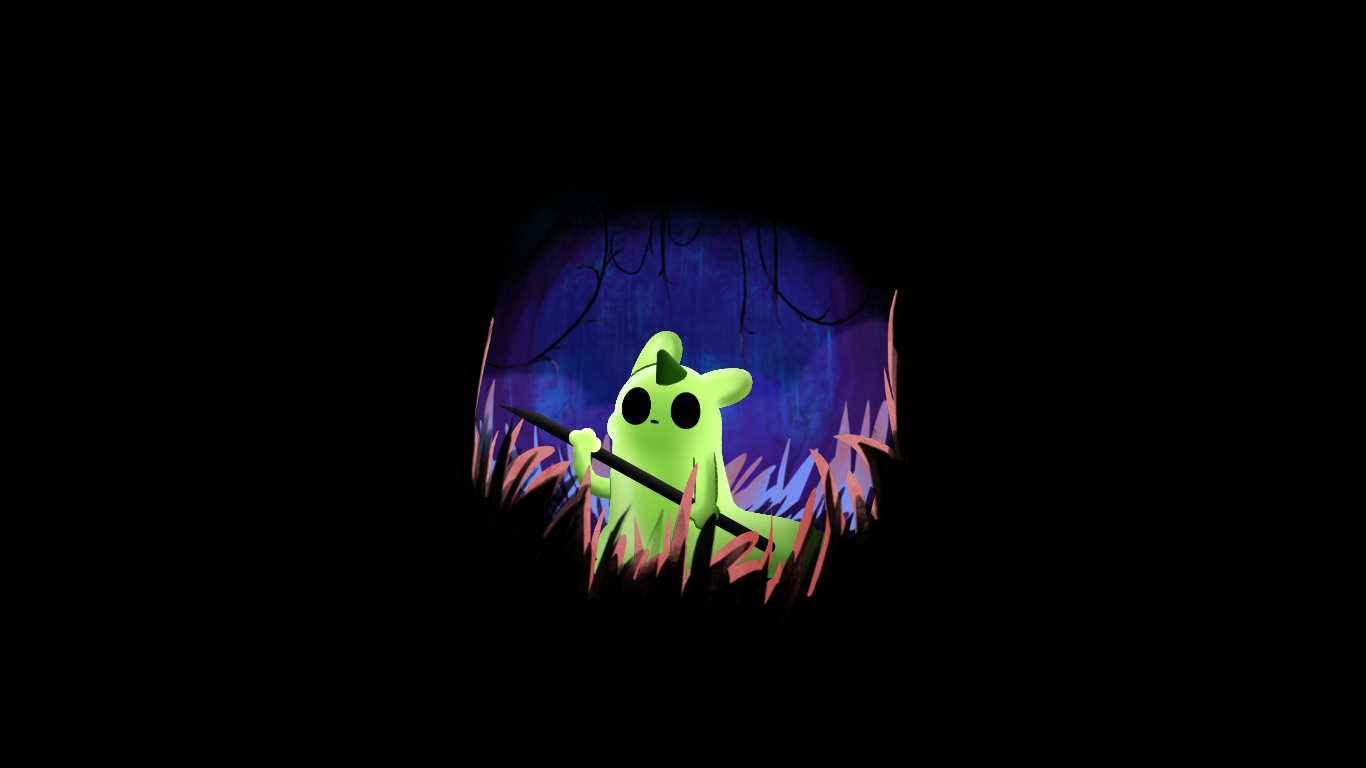
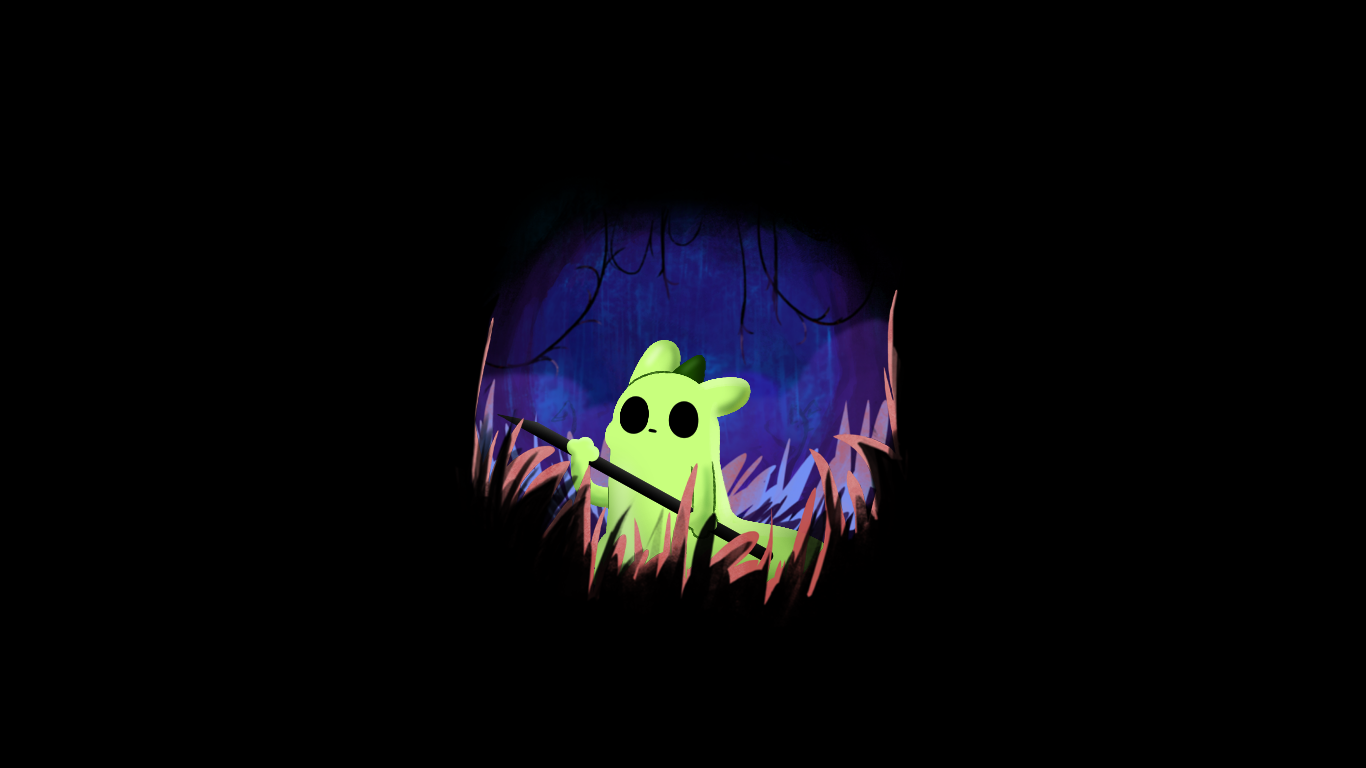
Preps for supporting Custom lancers; Fixed 4 player cap

Changed region(s): [[0.369, 0.4375, 0.6149, 0.75]]

diff --git a/Cat/LancerGenerator.cs b/Cat/LancerGenerator.cs
@@ -1,6 +1,4 @@
-#define NO_MSC
-
-using CatSub.Story;
+using CatSub.Story;
 using LancerRemix.Cat;
 using LancerRemix.LancerMenu;
 using Menu;
@@ -20,27 +18,21 @@ namespace LancerRemix
             On.SlugcatStats.SlugcatFoodMeter += LancerFoodMeter;
             On.SlugcatStats.SlugcatUnlocked += LancerUnlocked;
             On.SlugcatStats.NourishmentOfObjectEaten += LancerNourishmentOfObjectEaten;
-#if NO_MSC
             On.Menu.MenuScene.UseSlugcatUnlocked += UseLancerUnlocked;
-#endif
             On.SlugcatStats.HiddenOrUnplayableSlugcat += DisableLancerRegularSelect;
         }
 
         private static bool IsStoryLancer => ModifyCat.IsStoryLancer;
-
-#if NO_MSC
 
         private static bool LancerUnlocked(On.SlugcatStats.orig_SlugcatUnlocked orig, SlugName i, RainWorld rainWorld)
         {
             if (IsLancer(i))
             {
                 i = GetBasis(i);
-                if (SlugcatStats.IsSlugcatFromMSC(i)) return false; // TBA
+                if (SlugcatStats.IsSlugcatFromMSC(i)) return LancerPlugin.MSCLANCERS;
             }
             return orig(i, rainWorld);
         }
-
-#endif
 
         private static bool UseLancerUnlocked(On.Menu.MenuScene.orig_UseSlugcatUnlocked orig, MenuScene self, SlugName slugcat)
         {
@@ -99,11 +91,13 @@ namespace LancerRemix
             string id = GetLancerName(basis.value);
             lancer = new SlugName(id, false);
             if (lancer.Index >= 0) return false;
+            lancerModifiers.Remove(basis);
 
             if (basis == SlugName.White || basis == SlugName.Yellow || basis == SlugName.Red || basis == SlugName.Night)
                 lancer = RegisterVanillaLancer(basis);
-            else if (SlugcatStats.IsSlugcatFromMSC(basis))
-                lancer = RegisterMSCLancer(basis);
+            //else if (SlugcatStats.IsSlugcatFromMSC(basis))
+            //    lancer = RegisterMSCLancer(basis);
+
             if (SlugBaseCharacter.TryGet(basis, out var _))
                 lancer = RegisterSlugBaseLancer(basis);
             if (lancer == null || lancer.Index < 0) return false; // something went wrong
@@ -122,7 +116,16 @@ namespace LancerRemix
             //return pair.Key;
         }
 
-        private static string GetLancerName(string basisName) => $"{basisName}Lancer";
+        private static string GetLancerName(string basisName)
+        {
+            if (CustomLancerDictionary.TryGetValue(basisName, out var lancer)) return lancer;
+            return $"{basisName}Lancer";
+        }
+
+        public static bool HasCustomLancer(string basisName, out string lancerName)
+            => CustomLancerDictionary.TryGetValue(basisName, out lancerName);
+
+        private static readonly Dictionary<string, string> CustomLancerDictionary = new Dictionary<string, string>();
 
         internal static void DeleteLancer(SlugName lancer)
         {
@@ -143,7 +146,7 @@ namespace LancerRemix
                 StoryRegistry.RegisterTimeline(new StoryRegistry.TimelinePointer(lancer, StoryRegistry.TimelinePointer.Relative.After, basis));
             var modifier = new StatModifier
             {
-                lungsFac = 1.1f,
+                lungsFac = 0.6f,
                 poleClimbSpeedFac = 1.1f,
                 corridorClimbSpeedFac = 1.05f,
                 runspeedFac = 1.2f,
@@ -158,24 +161,28 @@ namespace LancerRemix
             return lancer;
         }
 
-        private static SlugName RegisterMSCLancer(SlugName basis)
+        /// <summary>
+        /// Register custom slugcat lancer campaign. <paramref name="lancer"/> should be SlugBase character.
+        /// </summary>
+        /// <param name="basis"></param>
+        /// <param name="lancer"></param>
+        public static void RegisterCustomLancer(SlugName basis, SlugName lancer)
         {
-            var lancer = new SlugName(GetLancerName(basis.value), true);
-            StoryRegistry.RegisterTimeline(new StoryRegistry.TimelinePointer(lancer, StoryRegistry.TimelinePointer.Relative.After, basis));
             var modifier = new StatModifier
             {
-                lungsFac = 1.1f,
-                poleClimbSpeedFac = 1.1f,
-                corridorClimbSpeedFac = 1.05f,
-                runspeedFac = 1.2f,
-                bodyWeightFac = 0.8f,
-                loudnessFac = 0.8f,
+                lungsFac = 1f,
+                poleClimbSpeedFac = 1f,
+                corridorClimbSpeedFac = 1f,
+                runspeedFac = 1f,
+                bodyWeightFac = 1f,
+                loudnessFac = 1f,
 
-                generalVisibilityBonus = -0.1f,
-                visualStealthInSneakMode = 0.2f
+                generalVisibilityBonus = 0f,
+                visualStealthInSneakMode = 0f
             };
             lancerModifiers.Add(basis, modifier);
-            return lancer;
+            CustomLancerDictionary.Remove(basis.value);
+            CustomLancerDictionary.Add(basis.value, lancer.value);
         }
 
         private static SlugName RegisterSlugBaseLancer(SlugName basis)
@@ -255,6 +262,7 @@ namespace LancerRemix
             public float generalVisibilityBonus;
 
             public float visualStealthInSneakMode;
+
             // public int throwingSkill;
         }
     }

diff --git a/LancerMenu/MultiplayerPatch.cs b/LancerMenu/MultiplayerPatch.cs
@@ -1,6 +1,4 @@
-#define NO_MSC
-
-using LancerRemix.Cat;
+using LancerRemix.Cat;
 using Menu;
 using Menu.Remix;
 using Menu.Remix.MixedUI;
@@ -20,9 +18,7 @@ namespace LancerRemix.LancerMenu
         internal static void SubPatch()
         {
             On.Menu.MultiplayerMenu.Singal += ArenaMenuSingal;
-#if NO_MSC
             On.Menu.ChallengeSelectPage.StartButton_OnPressDone += ExpeditionDisableMSCLancers;
-#endif
         }
 
         #region Jolly
@@ -208,14 +204,12 @@ namespace LancerRemix.LancerMenu
                 UpdateIsPlayerLancer(false);
                 if (!ModManager.MSC || self.currentGameType == MoreSlugcatsEnums.GameTypeID.Challenge)
                     for (int i = 0; i < 4; ++i) SetLancerPlayers(i, false);
-#if NO_MSC
-                else
+                else if (!LancerPlugin.MSCLANCERS)
                 {
                     for (int i = 0; i < 4; ++i)
                         if (self.GetArenaSetup.playerClass[i] != null && SlugcatStats.IsSlugcatFromMSC(self.GetArenaSetup.playerClass[i]))
                             SetLancerPlayers(i, false);
                 }
-#endif
                 SaveLancerPlayers(self.manager.rainWorld.progression.miscProgressionData);
             }
         Skip: orig(self, sender, message);
@@ -223,29 +217,23 @@ namespace LancerRemix.LancerMenu
 
         #endregion Arena
 
-#if NO_MSC
-
         private static void ExpeditionDisableMSCLancers(On.Menu.ChallengeSelectPage.orig_StartButton_OnPressDone orig,
             ChallengeSelectPage self, UIfocusable trigger)
         {
             UpdateIsPlayerLancer(false);
             if (!ModManager.JollyCoop || !ModManager.CoopAvailable)
                 for (int i = 0; i < 4; ++i) SetLancerPlayers(i, false);
-#if NO_MSC
             else
             {
                 for (int i = 0; i < self.menu.manager.rainWorld.options.JollyPlayerCount; ++i)
                 {
                     var character = self.menu.manager.rainWorld.options.jollyPlayerOptionsArray[i].playerClass;
-                    if (character != null && SlugcatStats.IsSlugcatFromMSC(LancerEnums.GetBasis(character)))
+                    if (character != null && SlugcatStats.IsSlugcatFromMSC(LancerEnums.GetBasis(character)) && !LancerPlugin.MSCLANCERS)
                         SetLancerPlayers(i, false);
                 }
             }
-#endif
             SaveLancerPlayers(self.menu.manager.rainWorld.progression.miscProgressionData);
             orig(self, trigger);
         }
-
-#endif
     }
 }

diff --git a/Cat/ModifyCat.cs b/Cat/ModifyCat.cs
@@ -1,6 +1,4 @@
-#define NO_MSC
-
-using CatSub.Cat;
+using CatSub.Cat;
 using LancerRemix.LancerMenu;
 using Mono.Cecil.Cil;
 using MonoMod.Cil;
@@ -68,13 +66,14 @@ namespace LancerRemix.Cat
         {
         }
 
-        private static readonly bool[] isPlayerLancer = new bool[4];
+        private static bool[] isPlayerLancer = new bool[4];
         public static bool IsStoryLancer { get; private set; } = false;
 
         public static void SetIsPlayerLancer(bool story, bool[] players)
         {
             IsStoryLancer = story;
-            for (int i = 0; i < 4; ++i) isPlayerLancer[i] = players[i];
+            if (players.Length > isPlayerLancer.Length) Array.Resize(ref isPlayerLancer, players.Length);
+            for (int i = 0; i < players.Length; ++i) isPlayerLancer[i] = players[i];
         }
 
         public static bool IsPlayerLancer(int playerNumber) => isPlayerLancer[playerNumber];
@@ -114,15 +113,13 @@ namespace LancerRemix.Cat
             orig(self, abstractCreature, world);
             if (!IsPlayerLancer(self)) return;
             var basis = GetBasis(self.SlugCatClass);
-#if NO_MSC
-            if (SlugcatStats.IsSlugcatFromMSC(basis))
+            if (SlugcatStats.IsSlugcatFromMSC(basis) && !LancerPlugin.MSCLANCERS)
             {
                 isPlayerLancer[self.playerState.playerNumber] = false;
                 SelectMenuPatch.SetLancerPlayers(self.playerState.playerNumber, false);
                 SelectMenuPatch.SaveLancerPlayers(world.game.rainWorld.progression.miscProgressionData);
                 return;
             }
-#endif
             if (basis == SlugName.Red)
             {
                 catSubs.Add(self.playerState, new LunterSupplement(self));

diff --git a/LancerMenu/SelectMenuPatch.cs b/LancerMenu/SelectMenuPatch.cs
@@ -1,6 +1,4 @@
-#define NO_MSC
-
-using CatSub.Story;
+using CatSub.Story;
 using HUD;
 using JollyCoop.JollyMenu;
 using LancerRemix.Cat;
@@ -216,10 +214,13 @@ namespace LancerRemix.LancerMenu
 
         #region LancerPlayers
 
-        private static readonly bool[] lancerPlayers = new bool[4];
+        private static bool[] lancerPlayers = new bool[4];
 
         internal static void SetLancerPlayers(int num, bool lancer)
-            => lancerPlayers[num] = lancer;
+        {
+            if (num >= lancerPlayers.Length) Array.Resize(ref lancerPlayers, (num + 3) / 4 * 4);
+            lancerPlayers[num] = lancer;
+        }
 
         internal static bool GetLancerPlayers(int num) => lancerPlayers[num];
 
@@ -268,8 +269,7 @@ namespace LancerRemix.LancerMenu
             if (message == "START")
             {
                 if (!ModManager.JollyCoop) lancerPlayers[0] = slugcatPageLancer;
-#if NO_MSC
-                else
+                else if (!LancerPlugin.MSCLANCERS)
                 {
                     for (int i = 0; i < 4; ++i)
                     {
@@ -277,7 +277,7 @@ namespace LancerRemix.LancerMenu
                         if (basis?.Index >= 0 && SlugcatStats.IsSlugcatFromMSC(basis)) SetLancerPlayers(i, false);
                     }
                 }
-#endif
+
                 UpdateIsPlayerLancer(slugcatPageLancer);
                 SaveLancerPlayers(self.manager.rainWorld.progression.miscProgressionData);
                 // StartGame(this.slugcatPages[this.slugcatPageIndex].slugcatNumber);

diff --git a/Cat/LancerDecoration.cs b/Cat/LancerDecoration.cs
@@ -105,7 +105,7 @@ namespace LancerRemix.Cat
             return defaultHornColors[basis];
         }
 
-        private static readonly Dictionary<SlugName, Color> defaultHornColors
+        public static readonly Dictionary<SlugName, Color> defaultHornColors
             = new Dictionary<SlugName, Color>()
             {
                 { SlugName.White, new Color(0.1f, 0.3f, 0.0f) },
@@ -114,14 +114,14 @@ namespace LancerRemix.Cat
                 { SlugName.Night, new Color(0.1f, 0.5f, 0.3f) }
             };
 
-        internal static IntVector2 HornStat(SlugName basis)
+        public static IntVector2 HornStat(SlugName basis)
         {
             basis = GetBasis(basis);
             if (vanillaHornStats.TryGetValue(basis, out var res)) return res;
             return new IntVector2(3, 8);
         }
 
-        private static readonly Dictionary<SlugName, IntVector2> vanillaHornStats
+        public static readonly Dictionary<SlugName, IntVector2> vanillaHornStats
             = new Dictionary<SlugName, IntVector2>()
             {
                 { SlugName.White, new IntVector2(3, 8) },

diff --git a/LancerPlugin.cs b/LancerPlugin.cs
@@ -35,7 +35,7 @@ namespace LancerRemix
     {
         public const string PLUGIN_ID = "com.rainworldgame.topicular.lancer.plugin";
         public const string PLUGIN_NAME = "Lancer";
-        public const string PLUGIN_VERSION = "1.1.0.5";
+        public const string PLUGIN_VERSION = "1.1.1.0";
 
         private static bool init = false;
         internal static ManualLogSource LogSource { get; private set; }
@@ -99,12 +99,16 @@ namespace LancerRemix
             };
         }
 
+        internal static bool MSCLANCERS = false;
+
         private static void RegisterLancersAfterMainMenu(On.ProcessManager.orig_PreSwitchMainProcess orig, ProcessManager self, ProcessManager.ProcessID ID)
         {
             if (self.currentMainLoop?.ID == ProcessManager.ProcessID.MainMenu)
             {
                 try
                 {
+                    MSCLANCERS = MachineConnector.IsThisModActive("com.rainworldgame.topicular.morelancer.plugin");
+
                     LancerEnums.RegisterLancers();
                 }
                 catch (Exception e) { Debug.LogException(e); }

diff --git a/LancerEnums.cs b/LancerEnums.cs
@@ -83,7 +83,9 @@ namespace LancerRemix
                 // if (ModManager.MSC && SlugcatStats.IsSlugcatFromMSC(slug)) continue;
                 if (SlugcatStats.HiddenOrUnplayableSlugcat(slug))
                     if (!ModManager.MSC || slug != MSCName.Sofanthiel) continue;
-                if (!LancerGenerator.CreateLancer(slug, out var lancer)) continue;
+                SlugName lancer;
+                if (LancerGenerator.HasCustomLancer(name, out var customName)) lancer = new SlugName(customName, false);
+                else if (!LancerGenerator.CreateLancer(slug, out lancer)) continue;
                 AllLancer.Add(lancer);
                 AllBasis.Add(slug);
                 NameLancer.Add(slug, lancer);

diff --git a/Cat/LancerSupplement.cs b/Cat/LancerSupplement.cs
@@ -35,7 +35,7 @@ namespace LancerRemix.Cat
         protected readonly bool isLonk = false;
         protected bool hasExhaustion = false;
 
-        private void UpdateHasExhaustion()
+        protected virtual void UpdateHasExhaustion()
         {
             hasExhaustion = self.Malnourished || isLonk;
         }
@@ -64,7 +64,7 @@ namespace LancerRemix.Cat
 
         public override string TargetSubVersion => "1.0";
 
-        private float aerobicCache;
+        protected float aerobicCache;
 
         public override void Update(On.Player.orig_Update orig, bool eu)
         {

diff --git a/Combat/WeaponPatch.cs b/Combat/WeaponPatch.cs
@@ -6,7 +6,6 @@ using RWCustom;
 using System;
 using UnityEngine;
 using static LancerRemix.Cat.ModifyCat;
-using static MonoMod.InlineRT.MonoModRule;
 
 namespace LancerRemix.Combat
 {

diff --git a/LancerMenu/HornColorPick.cs b/LancerMenu/HornColorPick.cs
@@ -1,6 +1,4 @@
-#define NO_MSC
-
-using JollyCoop.JollyMenu;
+using JollyCoop.JollyMenu;
 using LancerRemix.Cat;
 using Menu;
 using Menu.Remix;
